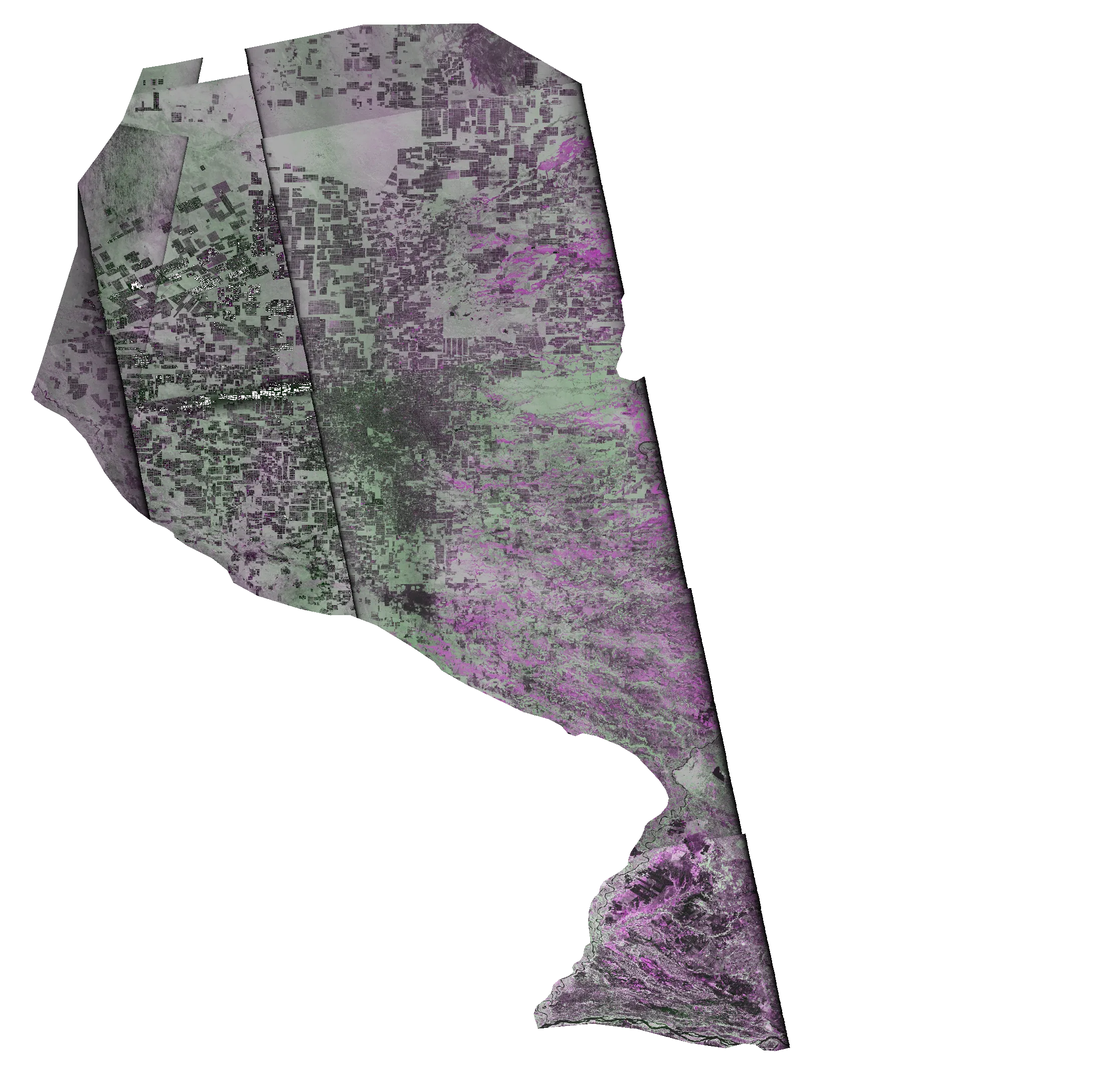
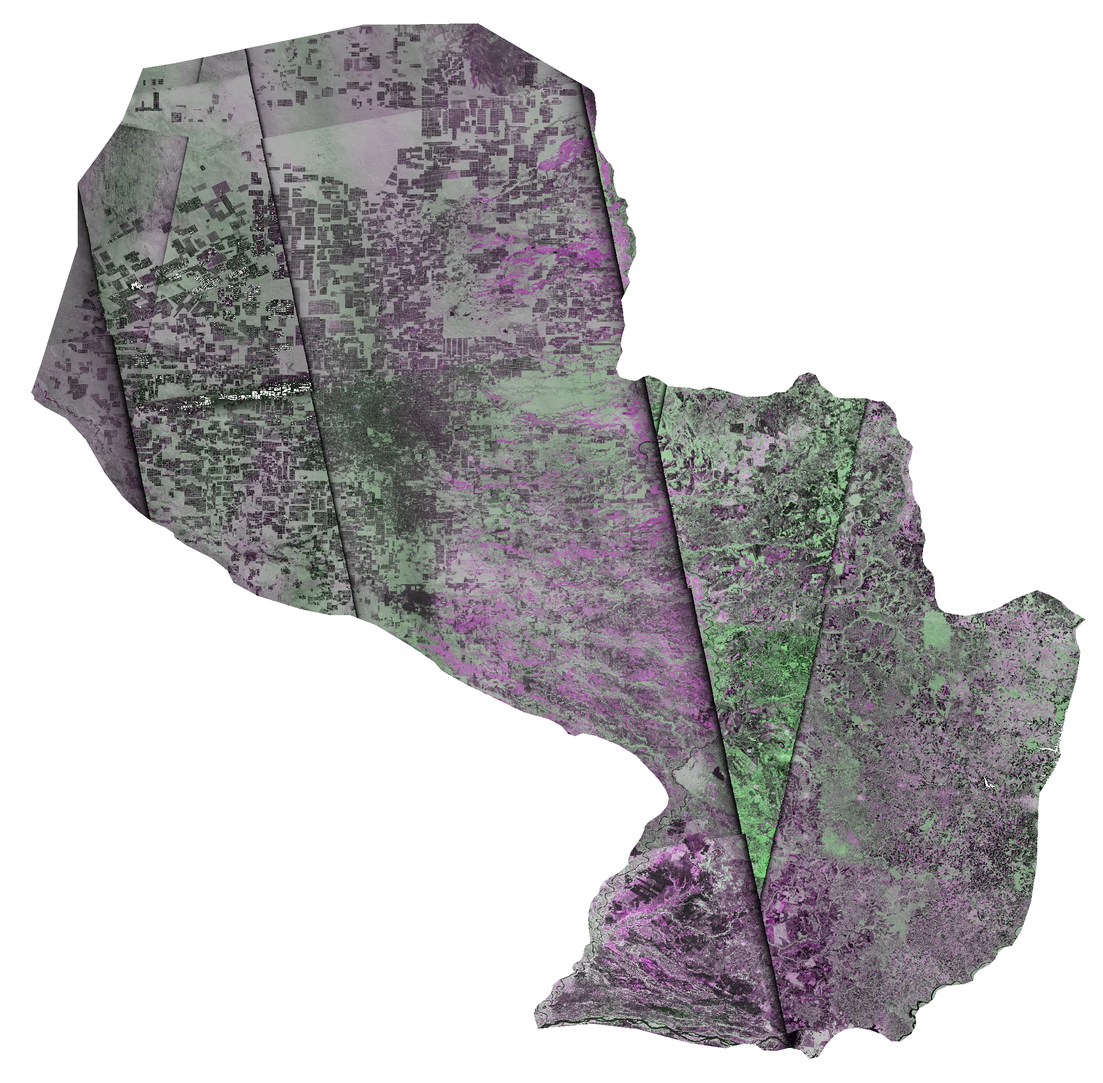
test: full-country 'before' mosaic (earliest pass per frame), mosaics only in before/after
NISAR first imaged eastern Paraguay in June 2026 (Mbaracayu: 2026-06-19),
so the 'before' mosaic now takes the earliest pass of every frame up to
mid-July: Nov 2025 - Jan 2026 in the west and centre, Jun - Jul 2026 in
the east (52 frames, ~100 % of the country). Because it mixes dates it is
shown only in before / after (left 'before', right 'after'), not as a
timeline date; the test note says which dates each region has.

Changed region(s): [[0.5873, 0.3409, 0.9891, 0.9917], [0.5255, 0.062, 0.5873, 0.2789], [0.1855, 0.031, 0.2473, 0.093]]

diff --git a/web/src/map/index.ts b/web/src/map/index.ts
@@ -186,9 +186,8 @@ export async function initMapSection(ds: Dataset): Promise<void> {
   const mosaic = mosaicMeta
     ? { before: ds.url("mosaic/before.webp"), after: ds.url("mosaic/after.webp"), coordinates: mosaicMeta.coordinates }
     : undefined;
-  /** The mosaic of a date: "before" up to January 2026, "after" from October 2026, none in between. */
-  const mosaicFor = (iso: string | undefined): "before" | "after" | null =>
-    !mosaicMeta || !iso ? null : iso <= "2026-01-31" ? "before" : iso >= "2026-10-01" ? "after" : null;
+  // The "before" mosaic mixes dates (Nov 2025 - Jan 2026 in the west and centre, Jun - Jul 2026 in the east, where
+  // NISAR first passed in June), so it is shown only in before / after, never as one timeline date.
   const mapOpts = { ds, polygons, hex, mini, miniOutline, zoneBoxes, imageSets, mosaic, offline: lab?.offline };
   const mapA = new RadarMap({ container: containerA, ...mapOpts, bbox: boxOf(focus), controls: true, start: "country" });
   let mapB: RadarMap | null = null;
@@ -387,15 +386,13 @@ export async function initMapSection(ds: Dataset): Promise<void> {
       if (mosaicMeta) {
         // TEST SITE: what the country mosaic is (and is not)
         const es = lang() === "es";
-        const pct = (x: MosaicSide) => Math.round(x.coverage_of_paraguay * 100);
-        const d = (x: MosaicSide) => x.dates.map((v) => fmt.date(v)).join(" – ");
         body.append(
           h(
             "p",
             "panel-note test-note",
             es
-              ? `PRUEBA · Mosaico de todo el Paraguay con vistas rápidas de NISAR (ASF): antes ${d(mosaicMeta.before)} (${pct(mosaicMeta.before)} % del país), después ${d(mosaicMeta.after)} (${pct(mosaicMeta.after)} %). Colores de ASF, sin calibrar; cada franja es otra pasada y otra fecha.`
-              : `TEST · Paraguay-wide mosaic of NISAR quick-looks (ASF): before ${d(mosaicMeta.before)} (${pct(mosaicMeta.before)} % of the country), after ${d(mosaicMeta.after)} (${pct(mosaicMeta.after)} %). ASF colours, not calibrated; each strip is another pass and date.`,
+              ? "PRUEBA · En «Antes / después», todo el Paraguay con vistas rápidas de NISAR (ASF). Antes: nov. 2025 – ene. 2026 en el oeste y el centro; jun. – jul. 2026 en el este (NISAR pasó ahí por primera vez en junio). Después: 10 – 31 oct. 2026. Colores de ASF, sin calibrar; cada franja es otra pasada."
+              : "TEST · In «Before / after», all of Paraguay in NISAR quick-looks (ASF). Before: Nov 2025 – Jan 2026 in the west and centre; Jun – Jul 2026 in the east (NISAR's first pass there was in June). After: 10 – 31 Oct 2026. ASF colours, not calibrated; each strip is another pass.",
           ),
         );
       }
@@ -519,7 +516,7 @@ export async function initMapSection(ds: Dataset): Promise<void> {
   // ------------------------------------------------------------------ modes
   function showTimeline(i: number) {
     cur = i;
-    mapA.setMosaic(mosaicFor(scenes[i]?.date));
+    mapA.setMosaic(null);
     void mapA.showScene(i);
     void mapA.setTime(i);
     renderPanel();
@@ -528,8 +525,8 @@ export async function initMapSection(ds: Dataset): Promise<void> {
   }
 
   function showCompare() {
-    mapA.setMosaic(mosaicFor(scenes[before]?.date));
-    mapB?.setMosaic(mosaicFor(scenes[after]?.date));
+    mapA.setMosaic(mosaicMeta ? "before" : null);
+    mapB?.setMosaic(mosaicMeta ? "after" : null);
     void mapA.showScene(before);
     void mapA.setTime(before);
     if (mapB) {

diff --git a/pipeline/export/browse_mosaic_test.py b/pipeline/export/browse_mosaic_test.py
@@ -2,8 +2,9 @@
 #
 # TEST SITE ONLY (branch test/nisar-paraguay-mosaic). Paraguay-wide NISAR quick-look mosaics from ASF GCOV
 # browse PNGs. Inputs (in this script's folder): selection.json (one product per track/frame from the ASF
-# search API: "after" = latest 2026-09-15..10-31, "before" = earliest 2025-10..2026-03) and the downloaded
+# search API: "after" = latest 2026-09-15..10-31 per track/frame) and the downloaded
 # browse PNGs in before/ and after/. Usage: python browse_mosaic_test.py <out_dir>
+# "before" = earliest pass of each track/frame up to 2026-07-15 (NISAR imaged eastern Paraguay only from June 2026).
 # Each browse is georeferenced by matching the 4 corners of its data swath (extreme non-black pixels)
 # to the 4 corners of the product footprint from the ASF search (affine fit; products with a residual
 # over 0.02 deg are skipped). Output: lon/lat grid over Paraguay, clipped to the country, RGBA WebP.

diff --git a/docs/REFERENCES.md b/docs/REFERENCES.md
@@ -37,7 +37,7 @@ Status: `used` = already in the code or the app; `planned` = listed in the plan,
 | Resolución N.º 1/2001, Dirección General de Bienes Culturales (Ministerio de Educación y Culto) | Government of Paraguay | — | Legal declaration and administrative location of the PNCAT (district of Puerto Casado, Alto Paraguay), used only to keep the study area away | — | used (ethics) |
 | HLS v2.0 Sentinel-2 (HLSS30), 2025-11-19 and 2026-11-04 | NASA / USGS / ESA | satellite | Colour check of radar detections | doi:10.5067/HLS/HLSS30.002 | used (check) |
 | Natural Earth admin-0 countries (1:50m, v5.1.2) | Natural Earth | modeled | Outline of Paraguay (257 points, `web/src/map/paraguay.json`) to tile the whole country with the web map's hexagon grid and to paint Paraguay white on the base map | https://www.naturalearthdata.com/ · https://github.com/nvkelso/natural-earth-vector (public domain) | used |
-| NISAR L2 GCOV browse images (ASF quick-looks, `_LATLON.png` and native PNG) | NASA/JPL, ASF DAAC | satellite | **Test site only** (branch `test/nisar-paraguay-mosaic`): Paraguay-wide before / after mosaics in the radar view (before 2025-11-02..2026-01-15, 22 frames, 67 % of the country; after 2026-10-10..10-31, 54 frames, ~100 %); ASF colours, not calibrated | ASF search API (`dataset=NISAR&processingLevel=GCOV`), browse URLs of each product · Data courtesy of NASA/JPL | test only |
+| NISAR L2 GCOV browse images (ASF quick-looks, `_LATLON.png` and native PNG) | NASA/JPL, ASF DAAC | satellite | **Test site only** (branch `test/nisar-paraguay-mosaic`): Paraguay-wide before / after mosaics in the radar view (before: earliest pass of each frame, 52 frames, ~100 % of the country: Nov 2025 - Jan 2026 in the west and centre, Jun - Jul 2026 in the east, where NISAR first passed in June 2026; after: 2026-10-10..10-31, 54 frames, ~100 %; shown only in before / after); ASF colours, not calibrated | ASF search API (`dataset=NISAR&processingLevel=GCOV`), browse URLs of each product · Data courtesy of NASA/JPL | test only |
 | Landsat animation of the Chaco, 1985–2025 (SVS 15026) | NASA Goddard Space Flight Center Scientific Visualization Studio | satellite | Story cover and demo video | https://svs.gsfc.nasa.gov/15026 | planned |
 
 ## Software libraries
